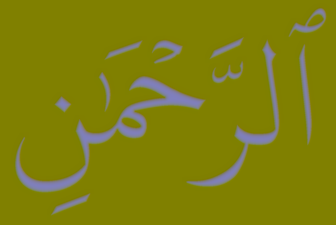
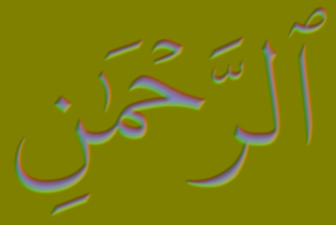
Round the wet ink film and add pooling and size dials

diff --git a/app/src/main/java/com/beautifulquran/ui/reader/PaperInkStudyActivity.kt b/app/src/main/java/com/beautifulquran/ui/reader/PaperInkStudyActivity.kt
@@ -13,17 +13,21 @@ import androidx.activity.compose.setContent
 import androidx.annotation.RequiresApi
 import androidx.compose.foundation.Canvas
 import androidx.compose.foundation.background
+import androidx.compose.foundation.gestures.awaitEachGesture
+import androidx.compose.foundation.gestures.awaitFirstDown
 import androidx.compose.foundation.layout.Arrangement
 import androidx.compose.foundation.layout.Column
 import androidx.compose.foundation.layout.Row
 import androidx.compose.foundation.layout.fillMaxSize
 import androidx.compose.foundation.layout.fillMaxWidth
+import androidx.compose.foundation.layout.height
 import androidx.compose.foundation.layout.padding
 import androidx.compose.foundation.layout.safeDrawingPadding
 import androidx.compose.material3.MaterialTheme
 import androidx.compose.material3.Text
 import androidx.compose.runtime.Composable
 import androidx.compose.runtime.LaunchedEffect
+import androidx.compose.runtime.MutableFloatState
 import androidx.compose.runtime.getValue
 import androidx.compose.runtime.mutableFloatStateOf
 import androidx.compose.runtime.mutableLongStateOf
@@ -32,8 +36,15 @@ import androidx.compose.runtime.produceState
 import androidx.compose.runtime.remember
 import androidx.compose.runtime.withFrameNanos
 import androidx.compose.ui.Modifier
+import androidx.compose.ui.geometry.Offset
 import androidx.compose.ui.graphics.Color
 import androidx.compose.ui.graphics.nativeCanvas
+import androidx.compose.ui.input.pointer.pointerInput
+import androidx.compose.ui.semantics.ProgressBarRangeInfo
+import androidx.compose.ui.semantics.contentDescription
+import androidx.compose.ui.semantics.progressBarRangeInfo
+import androidx.compose.ui.semantics.semantics
+import androidx.compose.ui.semantics.setProgress
 import androidx.compose.ui.unit.dp
 import androidx.lifecycle.compose.collectAsStateWithLifecycle
 import androidx.core.view.WindowCompat
@@ -48,6 +59,7 @@ import com.beautifulquran.ui.theme.LocalQuranAccents
 import com.beautifulquran.ui.theme.quietClickable
 import androidx.media3.common.Player
 import kotlin.math.min
+import kotlin.math.roundToInt
 import kotlinx.coroutines.Dispatchers
 import kotlinx.coroutines.withContext
 import org.json.JSONArray
@@ -162,6 +174,8 @@ private fun PaperInkStudyPage(app: QuranApp, study: PaperInkStudy) {
     val tick = remember { mutableLongStateOf(SystemClock.uptimeMillis()) }
     val fillMode = remember { mutableStateOf(InkFill.InsideOut) }
     val preview = remember { mutableStateOf(InkPreview.Voice) }
+    val thickness = remember { mutableFloatStateOf(.25f) }
+    val fontScale = remember { mutableFloatStateOf(1f) }
     val paper = Color(0xFFFAF3E8)
     val repeatColor = LocalQuranAccents.current.repeatInk
     LaunchedEffect(study) {
@@ -200,7 +214,7 @@ private fun PaperInkStudyPage(app: QuranApp, study: PaperInkStudy) {
                 maxOf(study.lastMediaMs, app.player.positionMs)
             } else 0L
             val currentAyah = if (belongs) state.nowPlaying!!.ayah else study.sequence.ayah
-            val scale = min(size.width / (study.maxWidth + 16f), size.height / 1080f)
+            val scale = min(size.width / (study.maxWidth + 16f), size.height / 1080f) * fontScale.floatValue
             val native = drawContext.canvas.nativeCanvas
             for ((row, line) in study.lines.withIndex()) {
                 val lineWidth = study.lineWidths[row]
@@ -229,7 +243,7 @@ private fun PaperInkStudyPage(app: QuranApp, study: PaperInkStudy) {
                     word.shader.setFloatUniform("retained", if (repeat) 1f else 0f)
                     word.shader.setFloatUniform("repeatPass", if (repeat) 1f else 0f)
                     word.shader.setFloatUniform("repeatColor", repeatColor.red, repeatColor.green, repeatColor.blue)
-                    word.shader.setFloatUniform("weight", 2.6f)
+                    word.shader.setFloatUniform("weight", thickness.floatValue * 3.5f)
                     word.shader.setFloatUniform("aa", .9f / scale)
                     x -= word.width * scale
                     word.shader.setFloatUniform("origin", x / scale - 362.5f,
@@ -246,6 +260,8 @@ private fun PaperInkStudyPage(app: QuranApp, study: PaperInkStudy) {
         Column(verticalArrangement = Arrangement.spacedBy(12.dp)) {
             Text("Paper ink", style = MaterialTheme.typography.titleMedium)
             Text("Letter ink wash · verse 2 repeats once", style = MaterialTheme.typography.bodySmall)
+            InkStudyDial("Ink pooling", thickness)
+            InkStudyDial("Font size", fontScale, .5f..1f)
             Row(Modifier.fillMaxWidth(), horizontalArrangement = Arrangement.SpaceBetween) {
                 InkFill.entries.forEach { mode ->
                     Text(mode.label, Modifier.quietClickable { fillMode.value = mode }.padding(vertical = 8.dp),
@@ -282,5 +298,44 @@ private fun PaperInkStudyPage(app: QuranApp, study: PaperInkStudy) {
                 }.padding(vertical = 12.dp))
             }
         }
+    }
+}
+
+@Composable
+private fun InkStudyDial(label: String, value: MutableFloatState, range: ClosedFloatingPointRange<Float> = 0f..1f) {
+    val ink = MaterialTheme.colorScheme.primary
+    val span = range.endInclusive - range.start
+    Row(Modifier.fillMaxWidth(), horizontalArrangement = Arrangement.SpaceBetween) {
+        Text(label, style = MaterialTheme.typography.bodySmall)
+        Text("${(value.floatValue * 100).roundToInt()}%", style = MaterialTheme.typography.bodySmall)
+    }
+    Canvas(Modifier.fillMaxWidth().height(48.dp).semantics {
+        contentDescription = label
+        progressBarRangeInfo = ProgressBarRangeInfo(value.floatValue, range)
+        setProgress { value.floatValue = it.coerceIn(range); true }
+    }.pointerInput(value, range) {
+        awaitEachGesture {
+            val down = awaitFirstDown()
+            fun adjust(x: Float) {
+                val fraction = ((x - 8.dp.toPx()) / (size.width - 16.dp.toPx())).coerceIn(0f, 1f)
+                value.floatValue = range.start + fraction * span
+            }
+            adjust(down.position.x)
+            down.consume()
+            do {
+                val change = awaitPointerEvent().changes.first { it.id == down.id }
+                adjust(change.position.x)
+                change.consume()
+            } while (change.pressed)
+        }
+    }) {
+        val left = 8.dp.toPx()
+        val width = size.width - left * 2
+        for (i in 0..20) {
+            val x = left + width * i / 20
+            val half = if (i % 5 == 0) 6.dp.toPx() else 3.dp.toPx()
+            drawLine(ink.copy(alpha = .3f), Offset(x, center.y - half), Offset(x, center.y + half), 1.dp.toPx())
+        }
+        drawCircle(ink, 4.dp.toPx(), Offset(left + width * (value.floatValue - range.start) / span, center.y))
     }
 }

diff --git a/tools/build_paper_ink_study.py b/tools/build_paper_ink_study.py
@@ -31,12 +31,14 @@ def build(ayah, position, text):
     distance -= np.sign(distance) / (2 * SS)
     edge = (alpha > 0) & (alpha < 1)
     distance[edge] = (alpha[edge] - .5) / SS
-    film = (1 - np.exp(-np.maximum(0, distance) / 1.5)) * .75
-    gy, gx = np.gradient(gaussian_filter(film * .3, 4))
+    # A rounded meniscus continues across broad strokes instead of flattening at the edge.
+    interior = np.maximum(0, distance)
+    film = interior / (interior + 3)
+    gy, gx = np.gradient(gaussian_filter(film * 3, SS))
     nx, ny = -gx * SS, -gy * SS
     length = np.sqrt(nx * nx + ny * ny + 1)
-    normal = np.stack([128 + nx / length * 127, 128 + ny / length * 127,
-                       film * 255, np.full(alpha.shape, 255)], axis=-1).astype('uint8')
+    normal = np.rint(np.stack([128 + nx / length * 127, 128 + ny / length * 127,
+                              film * 255, np.full(alpha.shape, 255)], axis=-1)).astype('uint8')
     # Opaque data avoids premultiplication. B carries signed contour distance.
     field = np.zeros((*alpha.shape, 4), dtype='uint8')
     yy = np.arange(h * SS)[:, None]

diff --git a/docs/GLIMMER.md b/docs/GLIMMER.md
@@ -34,12 +34,24 @@ The wash is based on media time, so pausing freezes filling and changing
 playback speed scales it with the recitation. Before its turn, a word remains
 visible beneath the paper.
 
-Wet ink is optically fuller than dry ink, with a smooth liquid film and
-localized window reflections at 70% strength. A controlled light pass follows
+Wet ink is optically fuller than dry ink, with a rounded liquid film across
+the stroke interior and localized window reflections at 45% strength. The
+surface keeps curving through broad strokes rather than flattening behind a
+thick outline. A controlled light pass follows
 the word's media progress and dry-down; it needs no phone movement or sensor.
-Both gloss and the 2.6 font-pixel optical expansion settle over the existing
+Both gloss and the optical expansion settle over the existing
 `InkEngine.tuning.glintFadeMs`. Hafs has no variable weight axis. No glow,
 pixel noise, or surrounding shadow is added.
+
+The **Ink pooling** dial changes wet spread and liquid depth live, including
+in Hold wet. Its 0–100% range corresponds to 0–3.5 font pixels of optical
+expansion; the default is 25% (0.875 pixels), down from the previous fixed
+2.6 pixels. Zero keeps a thin wet film with no expansion. Dry ink always
+returns to the original font contour, at every dial setting. The dial does
+not change timing or restart playback.
+The **Font size** dial scales the fitted sample from 50% to 100%, centred on
+the same three rows. It changes only drawing scale, keeping playback and
+the pooling setting intact. Both dials reset when the study is reopened.
 
 When verse 2 repeats, its entire previously read black base stays visible.
 The wash brings in the existing Paper orange repeat accent together
